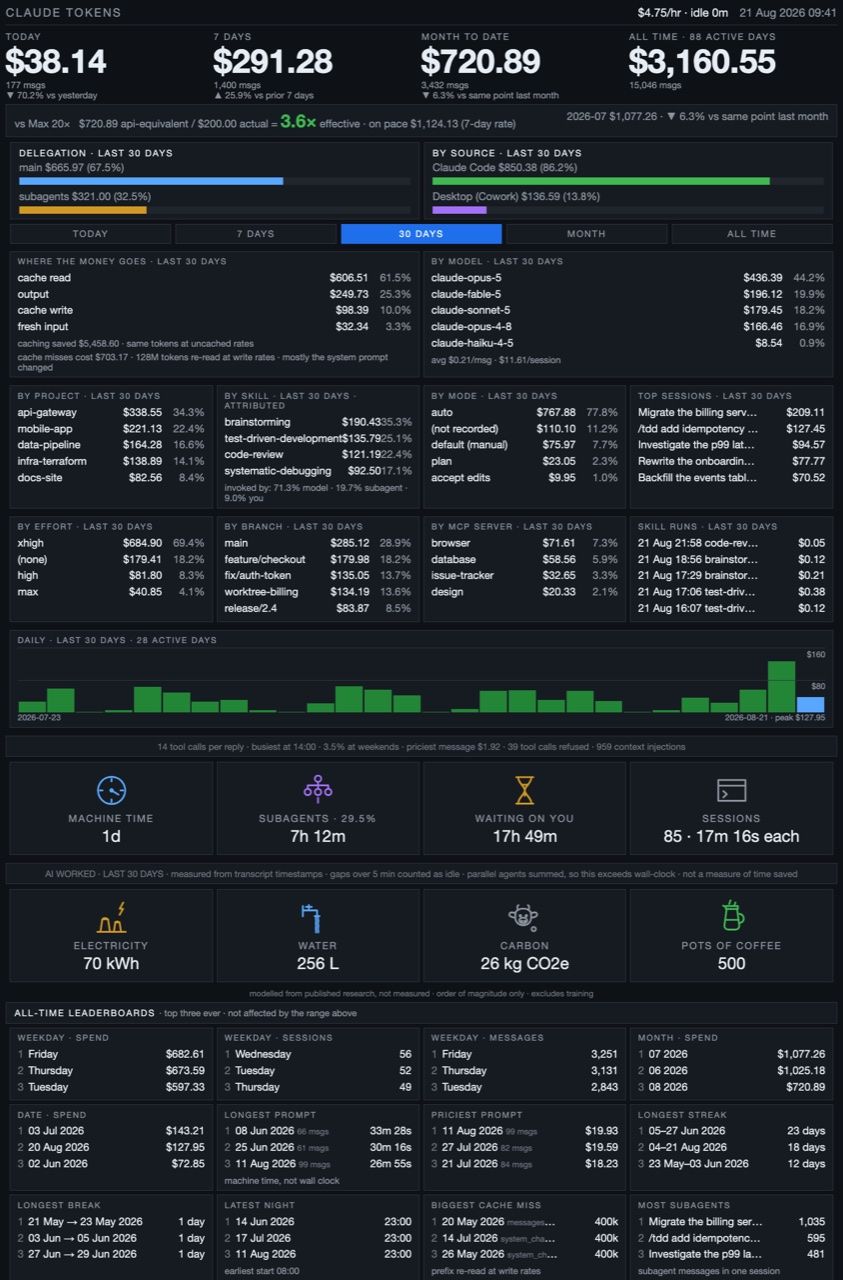
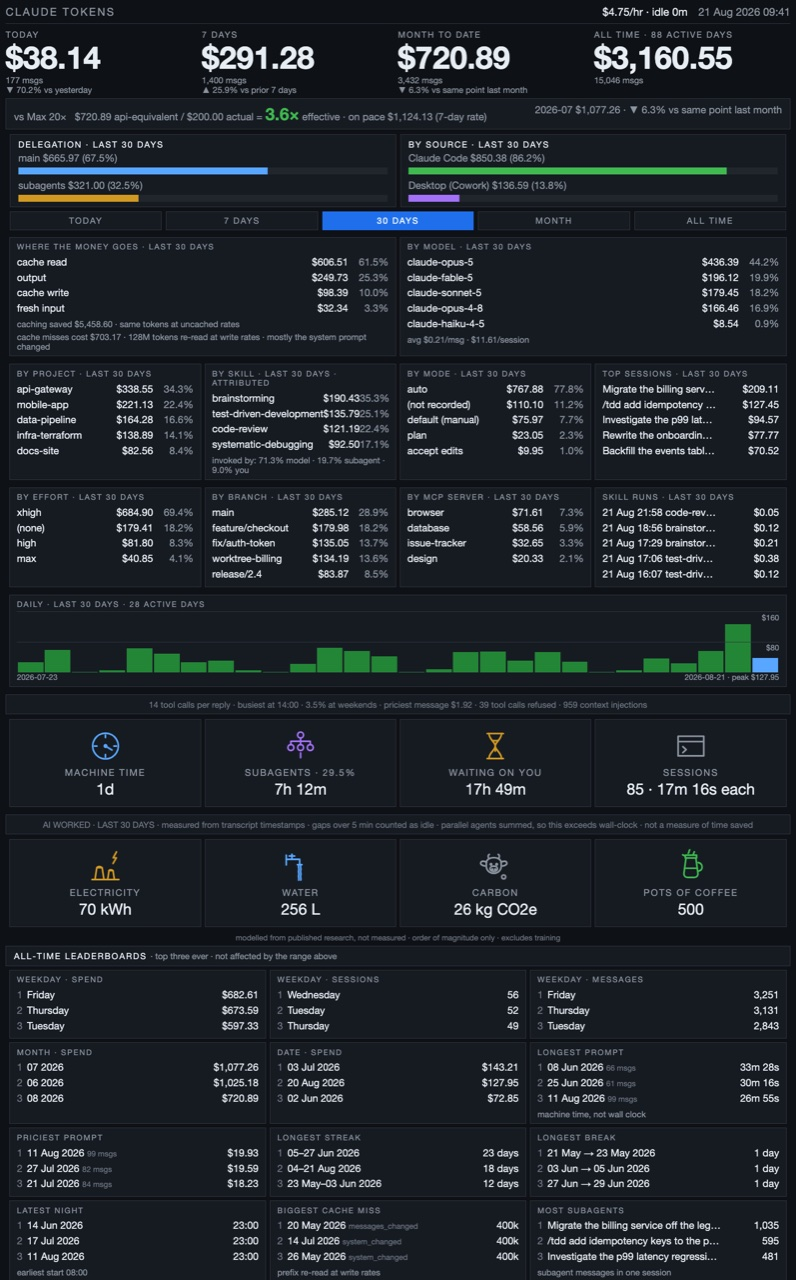
Lay the leaderboards out three across
Three won on legibility. At four across a cache-miss reason truncates to
"system_change", the longest streak loses its year, and a session title gets
about twenty characters before the ellipsis. At three all of those fit.

Costs 92px: the page goes 1580px -> 1672px. Set LEADERBOARD_COLUMNS back to
4 to trade it the other way.

Golden snapshot and README screenshot regenerated.

Claude-Session: https://claude.ai/code/session_013xSMFUf1Xu7BGjZfdm5wnH

diff --git a/tests/fixtures/golden_dashboard.html b/tests/fixtures/golden_dashboard.html
@@ -188,5 +188,5 @@ $41.15/session</div><div class="note">1 unpriced model(s), counted but not coste
 
 <table class="cards" id="worked"><tbody><tr><td class="card"><svg class="cardicon" width="46" height="46" viewBox="0 0 24 24" fill="none" stroke="#58a6ff" stroke-width="1.15" stroke-linecap="round" stroke-linejoin="round" aria-hidden="true"><path d="M12 3.4a8.6 8.6 0 1 0 .1 0"/><path d="M12 4.6v1.7M19.4 12h-1.7M12 19.4v-1.7M4.6 12h1.7"/><path d="M12 11.2a.8 .8 0 1 0 .1 0"/><g class="frame frame1"><path d="M12 12V6.9"/></g><g class="frame frame2"><path d="M12 12l4.4 2.6"/></g><g class="frame frame3"><path d="M12 12l-4.4 2.6"/></g></svg><div class="cardlabel">MACHINE TIME</div><div class="cardvalue">1d 8h</div></td><td class="card"><svg class="cardicon" width="46" height="46" viewBox="0 0 24 24" fill="none" stroke="#a371f7" stroke-width="1.15" stroke-linecap="round" stroke-linejoin="round" aria-hidden="true"><path d="M10 4.6a2 2 0 1 0 4 0a2 2 0 1 0-4 0"/><path d="M12 6.6v2.2M5.5 8.8h13M5.5 8.8v2.2M12 8.8v2.2M18.5 8.8v2.2"/><path d="M3.5 13a2 2 0 1 0 4 0a2 2 0 1 0-4 0"/><path d="M10 13a2 2 0 1 0 4 0a2 2 0 1 0-4 0"/><path d="M16.5 13a2 2 0 1 0 4 0a2 2 0 1 0-4 0"/><g class="frame frame1"><path d="M5.5 16.6v3.2"/></g><g class="frame frame2"><path d="M12 16.6v3.2"/></g><g class="frame frame3"><path d="M18.5 16.6v3.2"/></g></svg><div class="cardlabel">SUBAGENTS &middot; 32.8%</div><div class="cardvalue">10h 30m</div></td></tr></tbody></table><div class="cardnote framed">AI WORKED &middot; LAST 30 DAYS &middot; measured from transcript timestamps &middot; gaps over 5 min counted as idle &middot; parallel agents summed, so this exceeds wall-clock &middot; not a measure of time saved</div>
 <table class="cards" id="footprint"><tbody><tr><td class="card"><svg class="cardicon" width="46" height="46" viewBox="0 0 24 24" fill="none" stroke="#d29922" stroke-width="1.15" stroke-linecap="round" stroke-linejoin="round" aria-hidden="true"><path d="M3 21h18M5 21l1.2-8h3.6L11 21M13.5 21l.9-6h2.7l.9 6"/><path d="M6.4 13c.6-1 2.4-1 3 0M14.4 15c.5-.8 1.9-.8 2.4 0"/><g class="frame frame1"><path d="M19 2l-2.6 4.4h2.4L16.4 11"/></g><g class="frame frame2"><path d="M19.4 2.4l-2.2 4h2.1l-2.2 3.8"/></g></svg><div class="cardlabel">ELECTRICITY</div><div class="cardvalue">2.4 kWh</div></td><td class="card"><svg class="cardicon" width="46" height="46" viewBox="0 0 24 24" fill="none" stroke="#58a6ff" stroke-width="1.15" stroke-linecap="round" stroke-linejoin="round" aria-hidden="true"><path d="M2.4 4.6v6.6"/><path d="M2.4 7.4h9v3.6"/><path d="M9.9 11h3"/><path d="M6.2 7.4V5.2M4.4 5.2h3.6M6.2 5.2V4"/><g class="frame frame1"><path d="M10.7 10.4c-.5 1.1.5 2.2 0 3.3s.5 2.2 0 3.3s.5 2.2 0 3.3M12.1 10.4c-.5 1.1.5 2.2 0 3.3s.5 2.2 0 3.3s.5 2.2 0 3.3"/></g><g class="frame frame2"><path d="M10.7 11.5c-.5 1.1.5 2.2 0 3.3s.5 2.2 0 3.3s.5 2.2 0 3.3M12.1 11.5c-.5 1.1.5 2.2 0 3.3s.5 2.2 0 3.3s.5 2.2 0 3.3"/></g><g class="frame frame3"><path d="M10.7 12.6c-.5 1.1.5 2.2 0 3.3s.5 2.2 0 3.3s.5 2.2 0 3.3M12.1 12.6c-.5 1.1.5 2.2 0 3.3s.5 2.2 0 3.3s.5 2.2 0 3.3"/></g></svg><div class="cardlabel">WATER</div><div class="cardvalue">8.7 L</div></td><td class="card"><svg class="cardicon" width="46" height="46" viewBox="0 0 24 24" fill="none" stroke="#8b949e" stroke-width="1.15" stroke-linecap="round" stroke-linejoin="round" aria-hidden="true"><path d="M6 9.8c0-2.1 2.2-3.5 5-3.5s5 1.4 5 3.5v2.3c0 2.7-2.2 4.7-5 4.7s-5-2-5-4.7z"/><path d="M6.2 9.4c-1.9-1.1-3.5-.9-3.9.2s.8 2.1 2.7 2.3"/><path d="M15.8 9.4c1.9-1.1 3.5-.9 3.9.2s-.8 2.1-2.7 2.3"/><path d="M7.7 6.9c-.7-1.3-.5-2.3.3-2.8M14.3 6.9c.7-1.3.5-2.3-.3-2.8"/><path d="M9.1 10.3a.5 .5 0 1 0 .1 0M12.9 10.3a.5 .5 0 1 0 .1 0"/><path d="M8.5 13.7c0-1 1.1-1.7 2.5-1.7s2.5.7 2.5 1.7-1.1 1.8-2.5 1.8-2.5-.8-2.5-1.8z"/><path d="M10 13.9a.35 .35 0 1 0 .1 0M12 13.9a.35 .35 0 1 0 .1 0"/><g class="frame frame1"><path d="M15.6 17.6a.85 .85 0 1 0 .1 0"/></g><g class="frame frame2"><path d="M17.6 17.9a1.35 1.35 0 1 0 .1 0"/></g><g class="frame frame3"><path d="M19.9 17.5a1.95 1.95 0 1 0 .1 0"/></g></svg><div class="cardlabel">CARBON</div><div class="cardvalue">884 g CO2e</div></td><td class="card"><svg class="cardicon" width="46" height="46" viewBox="0 0 24 24" fill="none" stroke="#3fb950" stroke-width="1.15" stroke-linecap="round" stroke-linejoin="round" aria-hidden="true"><path d="M8.2 4.6h7.6v1.9H8.2z"/><path d="M8.7 6.5L7.3 16.9a2.4 2.4 0 0 0 2.4 2.7h4.6a2.4 2.4 0 0 0 2.4-2.7L15.3 6.5"/><path d="M8 5.2L6.5 4.4"/><path d="M16.9 9.6c2.1.5 2.6 1.9 2.6 3s-.7 2.3-2.2 2.7"/><path d="M7.7 13.4h8.6"/><g class="frame frame1"><path d="M10.2 4.1c.9-.7.1-1.5 1-2.2"/></g><g class="frame frame2"><path d="M10.2 3.3c.9-.7.1-1.5 1-2.2M13.5 4.1c.7-.5.1-1.2.8-1.7"/></g><g class="frame frame3"><path d="M10.2 2.5c.9-.7.1-1.5 1-2.2M13.5 3.3c.7-.5.1-1.2.8-1.7"/></g></svg><div class="cardlabel">POTS OF COFFEE</div><div class="cardvalue">20</div></td></tr></tbody></table><div class="cardnote">modelled from published research, not measured &middot; order of magnitude only &middot; excludes training</div>
-<div class="section">ALL-TIME LEADERBOARDS <span class="quiet">&middot; top three ever &middot; not affected by the range above</span></div><table class="grid"><tbody><tr><td><h2>WEEKDAY · SPEND</h2><table class="lrows"><tr><td class="rank rank1">1</td><td class="lname">Tuesday</td><td class="lval">$1,025.83</td></tr><tr><td class="rank rank2">2</td><td class="lname">Thursday</td><td class="lval">$803.42</td></tr><tr><td class="rank rank3">3</td><td class="lname">Monday</td><td class="lval">$803.20</td></tr></table></td><td><h2>WEEKDAY · SESSIONS</h2><table class="lrows"><tr><td class="rank rank1">1</td><td class="lname">Monday</td><td class="lval">48</td></tr></table></td><td><h2>LONGEST PROMPT</h2><table class="lrows"><tr><td class="rank rank1">1</td><td class="lname">16 Jul 2026 <span class="lnote">332 msgs</span></td><td class="lval">3h 2m</td></tr></table><div class="note">machine time, not wall clock</div></td><td><h2>LATEST NIGHT</h2><table class="lrows"><tr><td class="rank rank1">1</td><td class="lname">04 Aug 2026</td><td class="lval">02:00</td></tr></table><div class="note">earliest start 07:00</div></td></tr><tr><td><h2>LONGEST STREAK</h2><table class="lrows"><tr><td class="rank rank1">1</td><td class="lname">13–25 Jul 2026</td><td class="lval">13 days</td></tr></table></td><td class="pad"></td><td class="pad"></td><td class="pad"></td></tr></tbody></table>
+<div class="section">ALL-TIME LEADERBOARDS <span class="quiet">&middot; top three ever &middot; not affected by the range above</span></div><table class="grid"><tbody><tr><td><h2>WEEKDAY · SPEND</h2><table class="lrows"><tr><td class="rank rank1">1</td><td class="lname">Tuesday</td><td class="lval">$1,025.83</td></tr><tr><td class="rank rank2">2</td><td class="lname">Thursday</td><td class="lval">$803.42</td></tr><tr><td class="rank rank3">3</td><td class="lname">Monday</td><td class="lval">$803.20</td></tr></table></td><td><h2>WEEKDAY · SESSIONS</h2><table class="lrows"><tr><td class="rank rank1">1</td><td class="lname">Monday</td><td class="lval">48</td></tr></table></td><td><h2>LONGEST PROMPT</h2><table class="lrows"><tr><td class="rank rank1">1</td><td class="lname">16 Jul 2026 <span class="lnote">332 msgs</span></td><td class="lval">3h 2m</td></tr></table><div class="note">machine time, not wall clock</div></td></tr><tr><td><h2>LATEST NIGHT</h2><table class="lrows"><tr><td class="rank rank1">1</td><td class="lname">04 Aug 2026</td><td class="lval">02:00</td></tr></table><div class="note">earliest start 07:00</div></td><td><h2>LONGEST STREAK</h2><table class="lrows"><tr><td class="rank rank1">1</td><td class="lname">13–25 Jul 2026</td><td class="lval">13 days</td></tr></table></td><td class="pad"></td></tr></tbody></table>
 </body></html>

diff --git a/dashboard/render_html.py b/dashboard/render_html.py
@@ -162,10 +162,12 @@ table.grid > tbody > tr > td.pad { background:transparent; border:0; }
 """.strip()
 
 
-#: Boards per row in the all-time section. Twelve boards divide evenly
-#: into both three and four, so either reads as a full block rather than
-#: as a grid with a hole in it.
-LEADERBOARD_COLUMNS = 4
+#: Boards per row in the all-time section. Twelve boards divide evenly into
+#: both three and four, so either reads as a full block rather than as a grid
+#: with a hole in it. Three won on legibility: at four across a cache-miss
+#: reason truncates to "system_change", the longest streak loses its year and
+#: a session title gets about twenty characters. The cost is 92px of page.
+LEADERBOARD_COLUMNS = 3
 
 
 def _money(value: float) -> str:

diff --git a/README.md b/README.md
@@ -143,13 +143,14 @@ properties, no `rem` units and no usable ES5 — so the layout is tables and
 that as a compatibility lint, so it cannot quietly regress. If it renders
 there, it renders anywhere.
 
-The page is laid out for a width of **1024** and is **1580px tall**, measured
+The page is laid out for a width of **1024** and is **1672px tall**, measured
 in a 1024-wide frame rather than estimated. Everything down to and including
 the daily chart fits a 1024×768 screen; the two card rows — machine time and
 footprint — and the all-time leaderboards below them need a scroll.
 
-Set `render_html.LEADERBOARD_COLUMNS` to `3` for wider boards at 1672px, or
-drop the leaderboards from `render()` entirely to get back to 1210px.
+Set `render_html.LEADERBOARD_COLUMNS` to `4` to trade board width for 92px of
+height (1580px), or drop the leaderboards from `render()` entirely to get back
+to 1210px.
 
 That is a deliberate trade rather than an oversight. The drawings are only
 worth having if they are big enough to read, and at 34px they were not —
